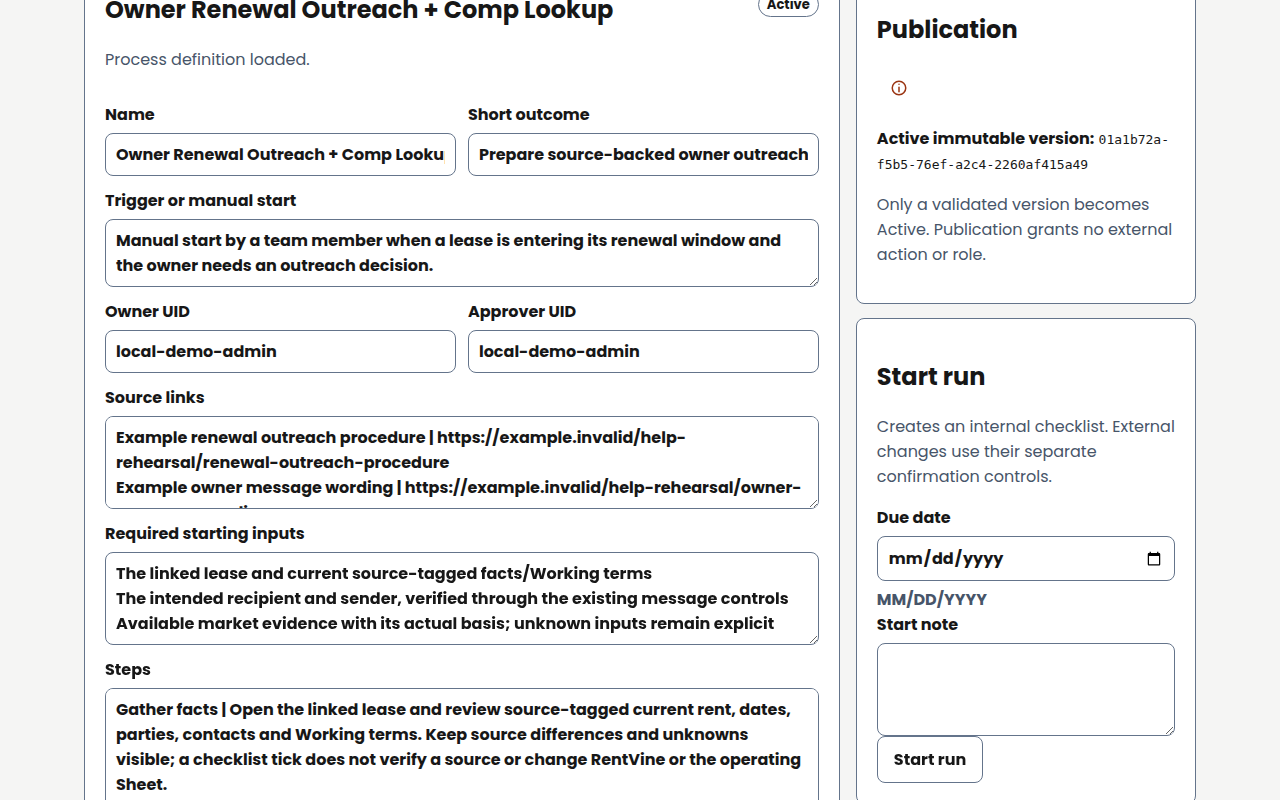
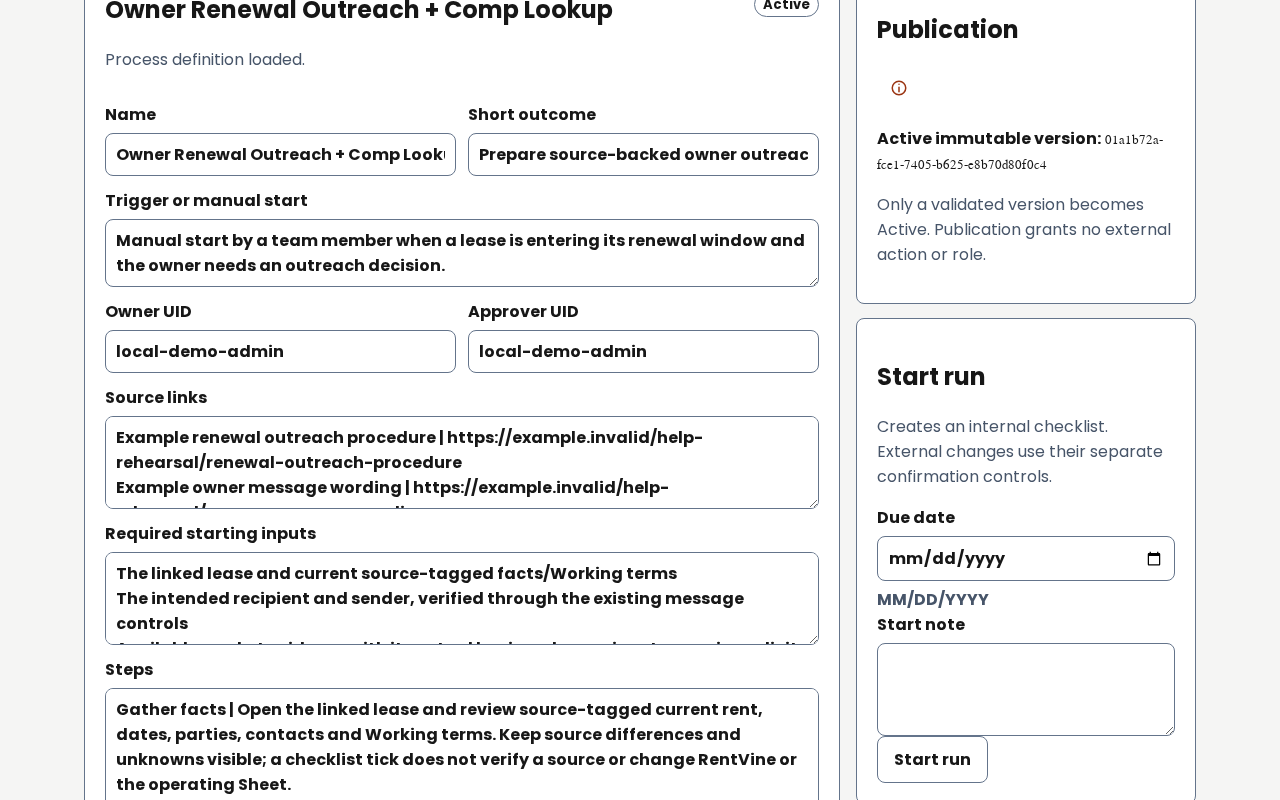
Use one isolated renderer and recapture all twenty-seven Help scenes

diff --git a/scripts/isolated-verify.py b/scripts/isolated-verify.py
@@ -472,9 +472,10 @@ def stage(args):
               'emulatorCache': str(output / 'emulators'),
               'fontCache': str(output / 'public-fonts'),
               'nodeRoot': str(Path(args.node_root).resolve(strict=True)), 'javaRoot': 'none',
-              'emulatorJar': args.emulator_jar, 'needsEmulator': args.task in ['verify', 'firestore', 'e2e', 'renewal-journey'],
-              'needsFonts': args.task in ['verify', 'policy-build', 'e2e', 'e2e-core', 'renewal-journey'],
-              'needsBrowser': args.task in ['verify', 'e2e', 'renewal-journey'],
+              'emulatorJar': args.emulator_jar,
+              'needsEmulator': args.task in ['verify', 'firestore', 'e2e', 'renewal-journey', 'help-rendered', 'help-captures'],
+              'needsFonts': args.task in ['verify', 'policy-build', 'e2e', 'e2e-core', 'renewal-journey', 'help-rendered', 'help-captures'],
+              'needsBrowser': args.task in ['verify', 'e2e', 'renewal-journey', 'help-rendered', 'help-captures'],
               'timeout': args.timeout_seconds, 'memoryMiB': args.memory_mib,
               'typecheckHeapMiB': args.typecheck_heap_mib,
               'buildHeapMiB': getattr(args, 'build_heap_mib', 1536),

diff --git a/lib/help/README.md b/lib/help/README.md
@@ -68,9 +68,10 @@ Required local verification and the E2E CI lane run the rendered control and sce
 npm run verify:help-rendered
 ```
 
-Use the lockfile-pinned Chromium and a clean commit. The rehearsal holds automatic comparison and
-uses an isolated Firestore emulator, synthetic fixture dates, and a browser restricted to the local
-app. Provider-only scenes and conditional controls are reported separately from passing cases.
+Use a clean commit. Local verification, review capture and CI use the same isolated renderer.
+It uses lockfile-pinned Chromium and the reviewed public Poppins bytes staged before the network
+namespace starts. The rehearsal holds automatic comparison and uses an isolated Firestore
+emulator, synthetic fixture dates, and a browser restricted to the local app. Provider-only scenes and conditional controls are reported separately from passing cases.
 A material difference saves the expected and observed synthetic images in the private run directory
 and fails the gate. The comparison tolerates small color changes from rasterization and checks both
 whole-scene and local areas for larger changes. The report names the source and served commits,
